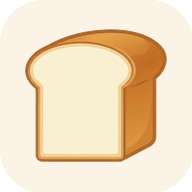
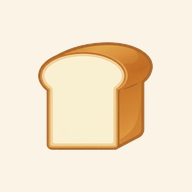
Add files via upload
アイコンの食パンが大きかったので、アイコン内に収まるように修正

diff --git a/service-worker.js b/service-worker.js
@@ -1,4 +1,4 @@
-const CACHE_NAME = 'task-manager-v2';
+const CACHE_NAME = 'task-manager-v3';
 const ASSETS = [
   './',
   './index.html',
